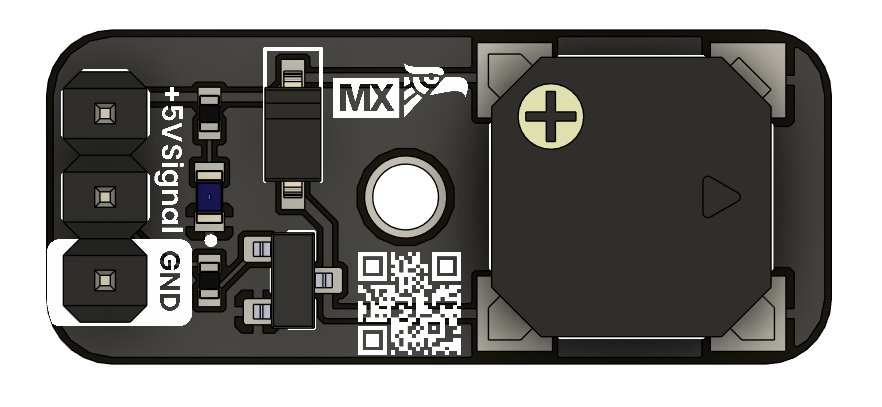
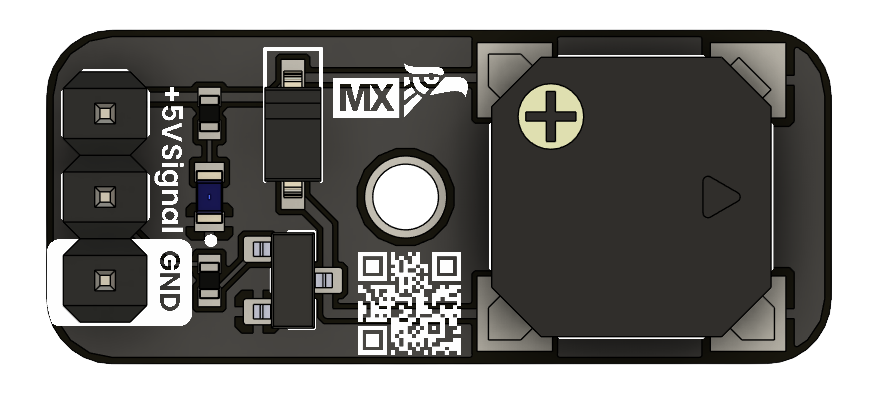
chore: center images

Changed region(s): [[0.8571, 0.8845, 0.8878, 0.914]]

diff --git a/README.md b/README.md
@@ -1,15 +1,19 @@
 # UNIT Buzzer Module
 
-* This module is a compact, easy-to-use **passive** buzzer component designed for embedded systems and prototyping. It features a standardized 3-pin interface: **VCC (5V)**, **Signal**, and **GND**, allowing seamless integration with a variety of microcontrollers, such as `Arduino`, `ESP32`, `CH552`, and `STM32` boards.
+This module is a compact, easy-to-use **passive** buzzer component designed for embedded systems and prototyping. It features a standardized 3-pin interface: **VCC (5V)**, **Signal**, and **GND**, allowing seamless integration with a variety of microcontrollers, such as `Arduino`, `ESP32`, `CH552`, and `STM32` boards.
 
-* The buzzer onboard can generate audible signals for use in **alarms**, **notifications**, **timers**, and **user feedback systems**. Its design includes a pre-mounted drive circuit, enabling direct digital control from microcontroller GPIO pins.
+> **_NOTE:_** The buzzer onboard can generate audible signals for use in **alarms**, **notifications**, **timers**, and **user feedback systems**. Its design includes a pre-mounted drive circuit, enabling direct digital control from microcontroller GPIO pins.
 
-<a href="#"><img src="hardware/resources/buzzer_top.png" width="500px"><br/> UNIT Buzzer Module</a>
+<div align="center">
+    <a href="./buzzer_module.pdf">
+        <img src="hardware/resources/buzzer_top.png" width="500px" alt="UNIT Buzzer Module"><br/>
+        UNIT Buzzer Module
+    </a>
+</div>
 
 ## Features
 
 - 🧩 3-pin standard interface: `+5V`, `Signal`, `GND`
-  
 - 🔊 Built-in buzzer (active or passive)
 - 📏 Compact footprint with mounting hole
 
@@ -21,9 +25,11 @@
 - Secure Access Control with Intrusion Alerts using RFID
 - Automotive Diagnostic Panel
 - Smart Irrigation System with Fault Alerts
-
 - Autonomous Drone or Robot Alert System
 
+# LICENSE MIT
+
+This project is licensed under the MIT License - see the [LICENSE](LICENSE) file for details.
 
 ## 🔄 Alert Priority System (Optional) 
 - 🔴 Continuous tone → Critical failure
@@ -32,7 +38,8 @@
 
 
 > 🔧 Note: use **PWM signals** to generate tones.
-
-<img src="hardware/resources/sonido.gif" alt="Sound Icon" width="100"/>
+<div align="center">
+    <img src="hardware/resources/sonido.gif" alt="Sound Icon" width="100"/>
+</div>
 
 
